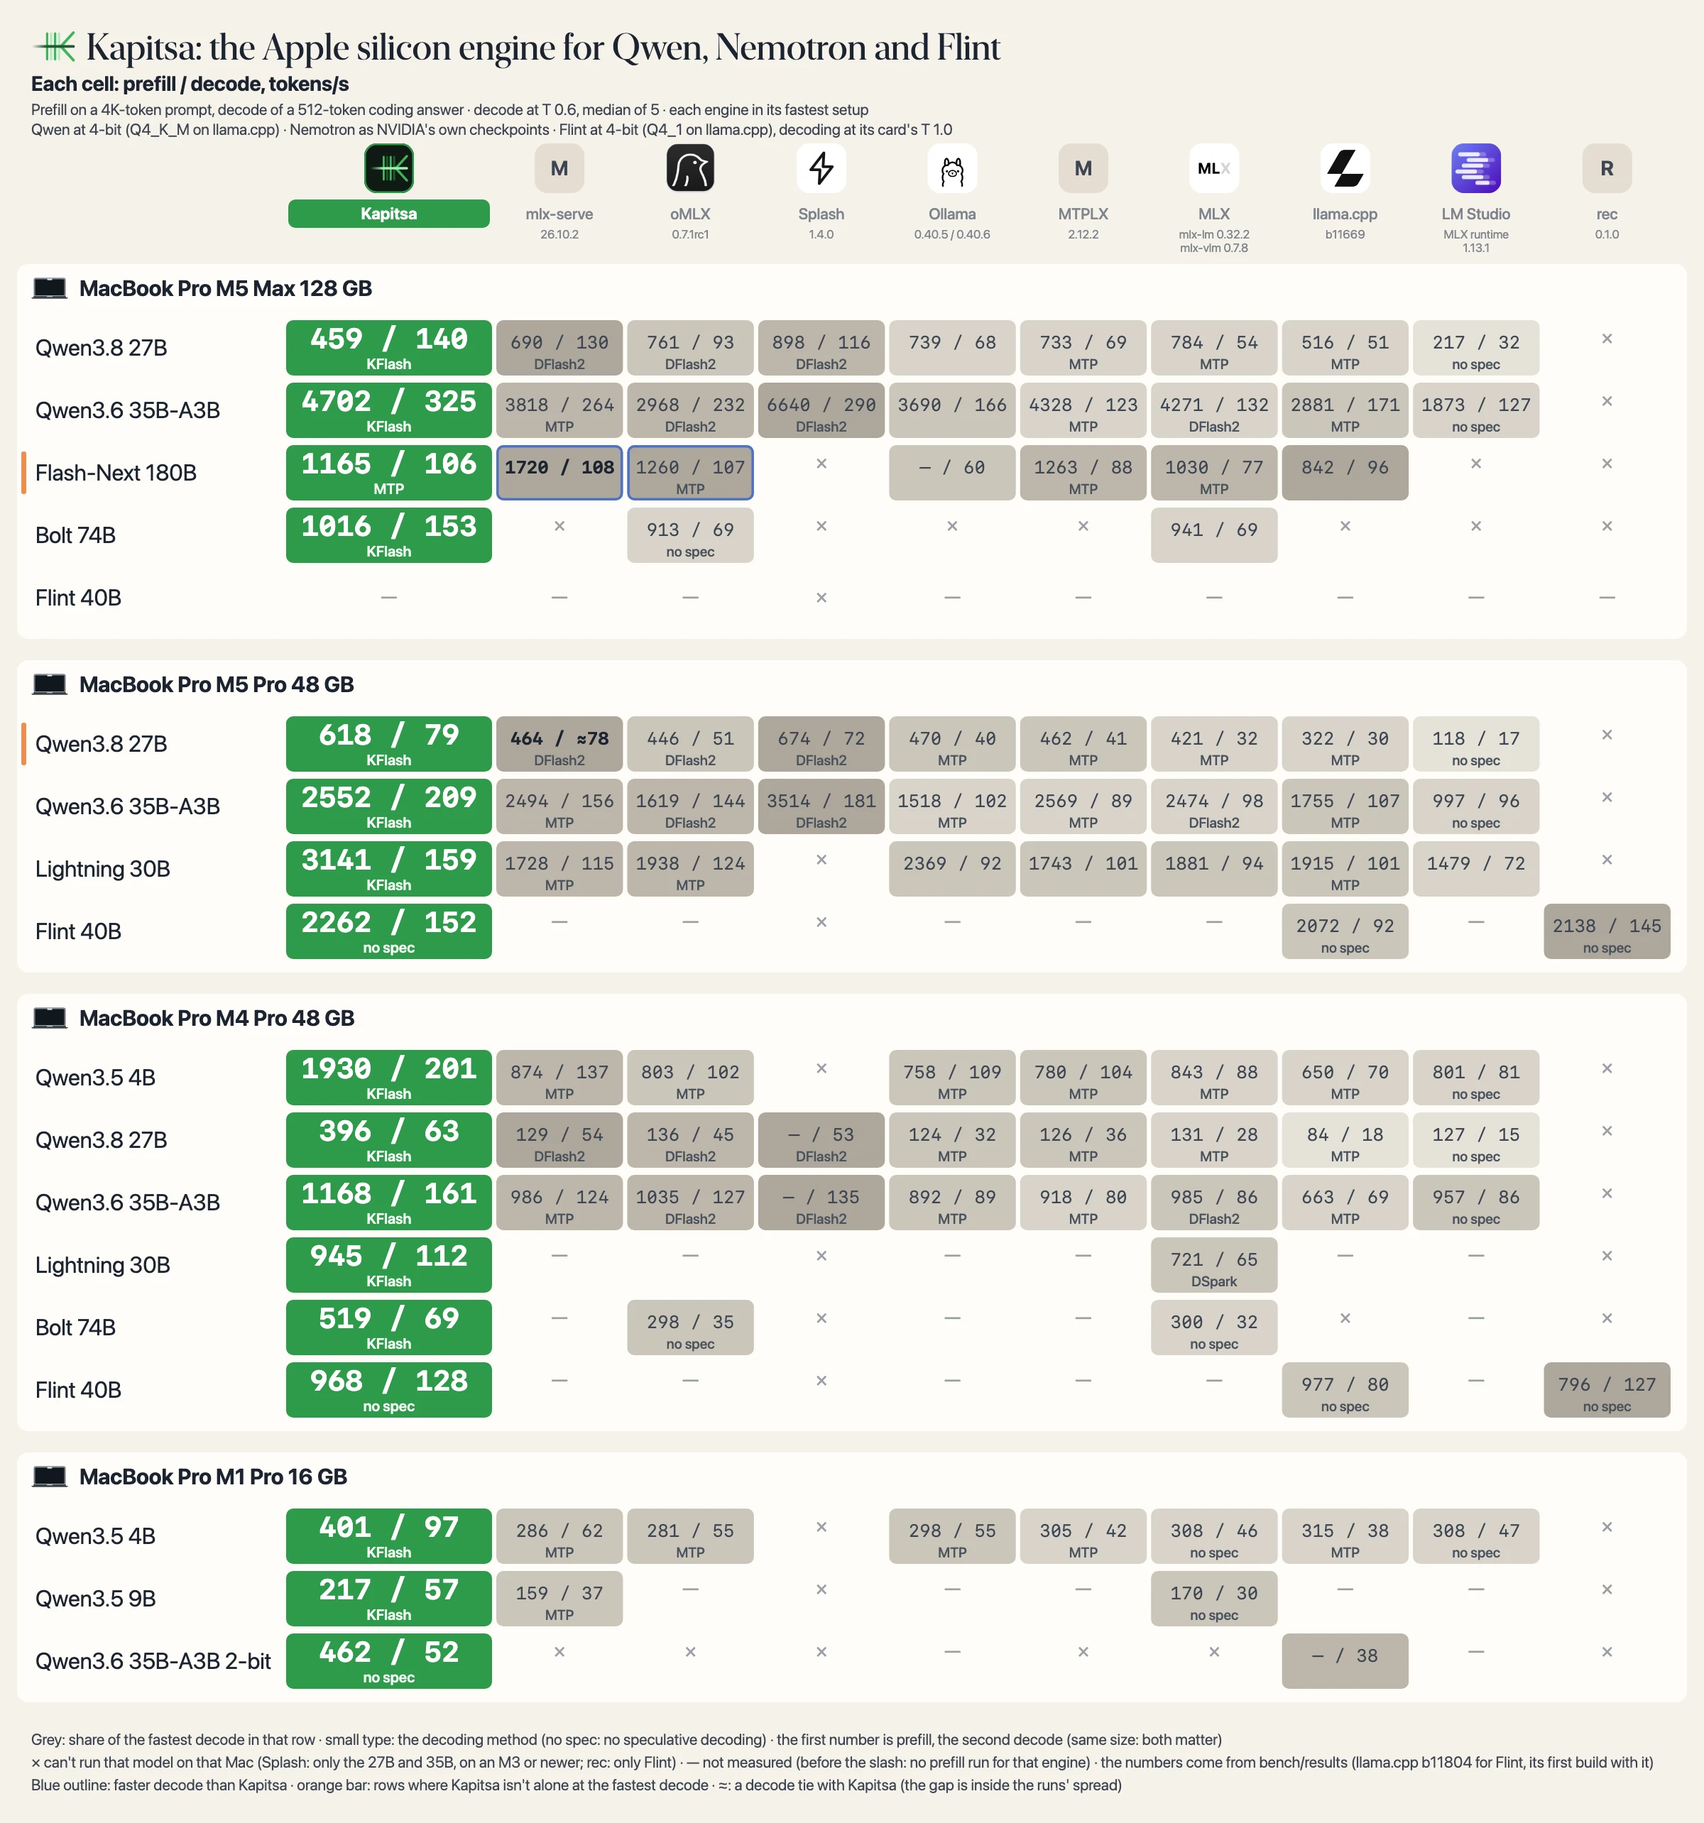
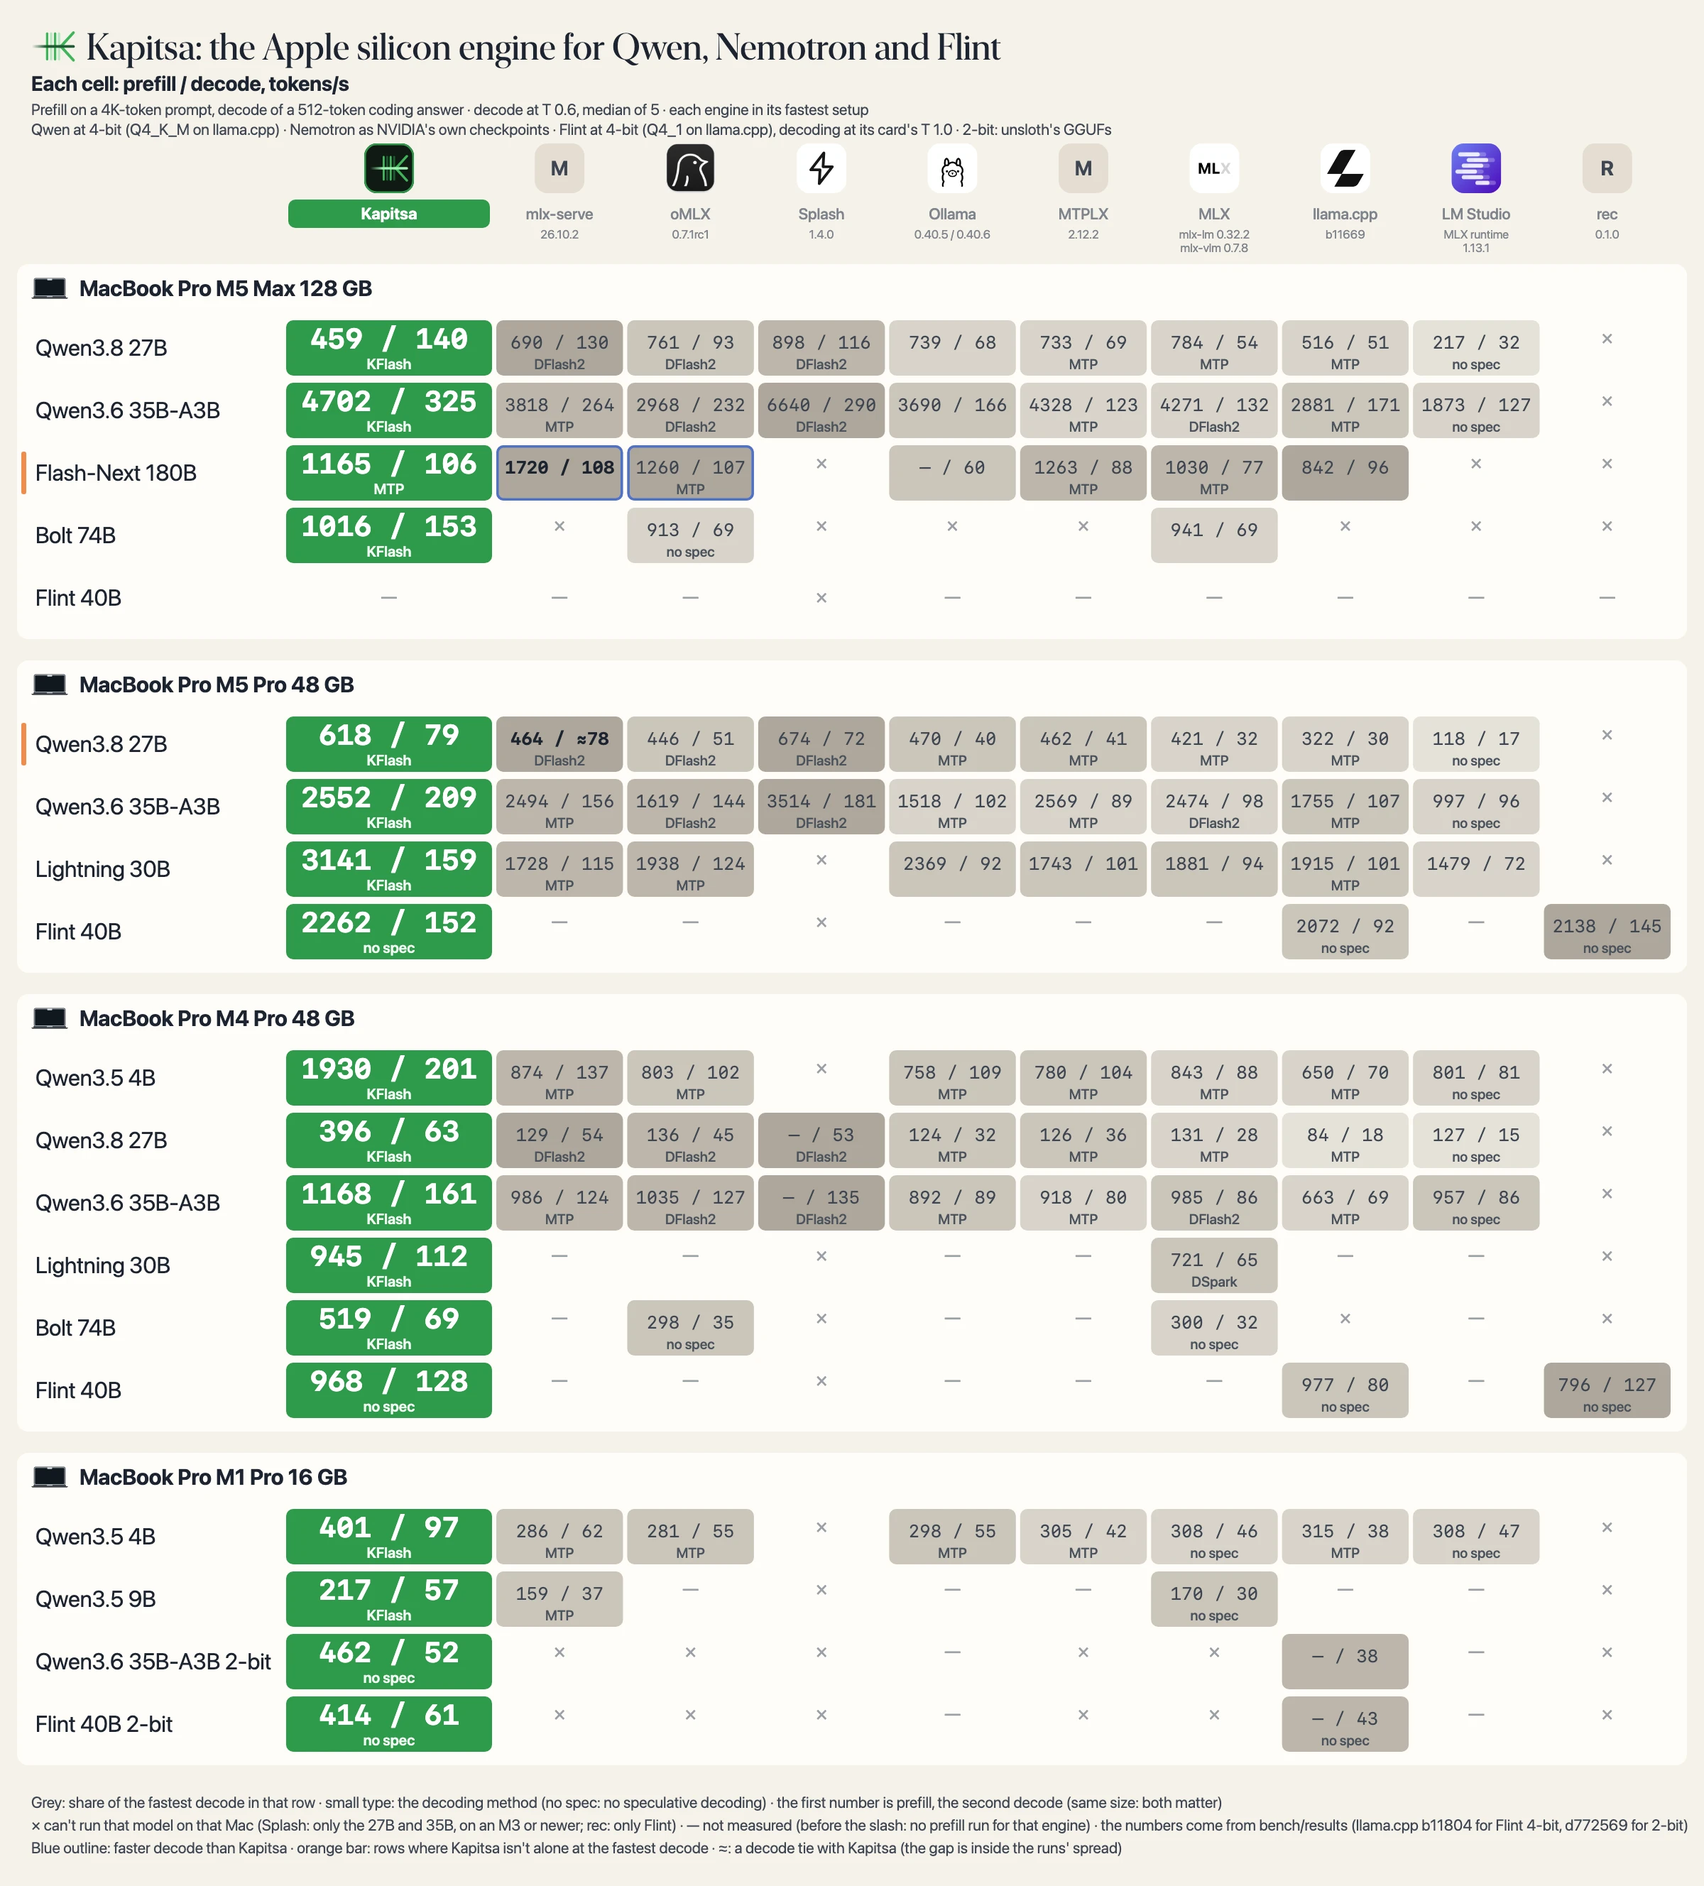
README after #346: the Flint 2-bit header, news line and count re-applied; poster and tables regenerated

diff --git a/bench/README.md b/bench/README.md
@@ -14,10 +14,14 @@ How to read it:
 
 <!-- BEGIN GENERATED: results (python3 bench/gen_readme.py; do not edit by hand) -->
 
-616 runs on 5 Macs (M1 Pro, 16 GB; M3 Pro, 36 GB; M4 Pro, 48 GB; M5 Max, 128 GB; M5 Pro, 48 GB), 2026-10-22 down to 2026-10-16, newest first.
+625 runs on 5 Macs (M1 Pro, 16 GB; M3 Pro, 36 GB; M4 Pro, 48 GB; M5 Max, 128 GB; M5 Pro, 48 GB), 2026-10-22 down to 2026-10-16, newest first.
 
 | Date | Submitted by | Mac | Model | Quant | Engine | Version | Decode tok/s | Greedy tok/s | Prefill 4K tok/s | Prefill 16K tok/s | TTFT 4K s | Agent tok/s | Flags | Record |
 | --- | --- | --- | --- | --- | --- | --- | ---: | ---: | ---: | ---: | ---: | ---: | --- | --- |
+| 2026-10-22 | Yerbol | M1 Pro, 16 GB | Flint 40B-A2.5B, 2-bit experts | 2-bit experts | Kapitsa (2-bit experts) | 2b5ab35 | 61.1 | 61.1 | 413 | – | 9.39 | – | – | [flint-16gb-kapitsa-20261022-230039](results/2026-10-22-flint-16gb-m1pro/results/flint-16gb-kapitsa-20261022-230039.json) |
+| 2026-10-22 | Yerbol | M1 Pro, 16 GB | Flint 40B-A2.5B, 2-bit experts | 2-bit experts | llama.cpp (UD-IQ2_XXS) | 0.7.0-dev | 42.6 | 42.1 | 346 | – | 11.19 | – | – | [flint-16gb-llamacpp-20261022-225553](results/2026-10-22-flint-16gb-m1pro/results/flint-16gb-llamacpp-20261022-225553.json) |
+| 2026-10-22 | Yerbol | M1 Pro, 16 GB | Flint 40B-A2.5B, 2-bit experts | 2-bit experts | Kapitsa (2-bit experts) | 2b5ab35 | 60.9 | 61.1 | 414 | – | 9.36 | – | – | [flint-16gb-kapitsa-20261022-225312](results/2026-10-22-flint-16gb-m1pro/results/flint-16gb-kapitsa-20261022-225312.json) |
+| 2026-10-22 | Yerbol | M1 Pro, 16 GB | Flint 40B-A2.5B, 2-bit experts | 2-bit experts | llama.cpp (UD-IQ2_XXS) | 0.7.0-dev | 42.2 | 42.9 | 355 | – | 10.90 | – | – | [flint-16gb-llamacpp-20261022-224836](results/2026-10-22-flint-16gb-m1pro/results/flint-16gb-llamacpp-20261022-224836.json) |
 | 2026-10-22 | Alisher Amantay | M3 Pro, 36 GB | Flint 40B-A2.5B | 4-bit | Kapitsa | a97e596 | 73.8 | 74.6 | 800 | 675 | 4.84 | – | – | [flint-kapitsa-20261022-223949](results/2026-10-22-flint-m3pro-ac/ab/results/flint-kapitsa-20261022-223949.json) |
 | 2026-10-22 | Alisher Amantay | M5 Pro, 48 GB | Flint 40B-A2.5B | 4-bit | Kapitsa | 91a249a | 149.9 | 151.1 | 2098 | 1423 | 1.85 | – | contention | [flint-kapitsa-20261022-223805](results/2026-10-22-flint-m5pro-qtm/results/flint-kapitsa-20261022-223805.json) |
 | 2026-10-22 | Alisher Amantay | M3 Pro, 36 GB | Flint 40B-A2.5B | 4-bit | Kapitsa | cff1b1e | 74.1 | 74.4 | 800 | 667 | 4.84 | – | – | [flint-kapitsa-20261022-223626](results/2026-10-22-flint-m3pro-ac/ab/results/flint-kapitsa-20261022-223626.json) |
@@ -35,14 +39,19 @@ How to read it:
 | 2026-10-22 | Alisher Amantay | M3 Pro, 36 GB | Flint 40B-A2.5B | 4-bit | Kapitsa | cff1b1e | 68.9 | 70.5 | 773 | 648 | 5.01 | – | – | [flint-kapitsa-20261022-211217](results/2026-10-22-flint-m3pro-ac/results/flint-kapitsa-20261022-211217.json) |
 | 2026-10-22 | Alisher Amantay | M3 Pro, 36 GB | Flint 40B-A2.5B | Q4_1 | llama.cpp b11804 | b11804 | 46.6 | 47.5 | 740 | 620 | 5.23 | – | – | [flint-llamacpp-20261022-210728](results/2026-10-22-flint-m3pro-ac/results/flint-llamacpp-20261022-210728.json) |
 | 2026-10-22 | Alisher Amantay | M3 Pro, 36 GB | Flint 40B-A2.5B | 4-bit | Kapitsa | cff1b1e | 70.7 | 70.5 | 772 | 645 | 5.02 | – | – | [flint-kapitsa-20261022-210349](results/2026-10-22-flint-m3pro-ac/results/flint-kapitsa-20261022-210349.json) |
+| 2026-10-22 | Yerbol | M1 Pro, 16 GB | Flint 40B-A2.5B, 2-bit experts | 2-bit experts | Kapitsa (2-bit experts) | 47960e8 | 61.6 | 61.4 | 414 | – | 9.36 | – | – | [flint-16gb-kapitsa-20261022-200335](results/2026-10-22-flint-16gb-m1pro/results/flint-16gb-kapitsa-20261022-200335.json) |
 | 2026-10-22 | Alisher Amantay | M5 Pro, 48 GB | Qwen3.8 27B | 4-bit | Kapitsa (DFlash2 drafter) | 3f7f4c8 | 81.8 | 84.3 | 653 | 546 | 6.33 | – | – | [q38-27b-kapitsa-20261022-200236](results/2026-10-22-m5pro-27b-ane-split/results/q38-27b-kapitsa-20261022-200236.json) |
+| 2026-10-22 | Yerbol | M1 Pro, 16 GB | Flint 40B-A2.5B, 2-bit experts | 2-bit experts | Kapitsa (2-bit experts) | 47960e8 | 61.0 | 61.2 | 413 | – | 9.38 | – | – | [flint-16gb-kapitsa-20261022-200059](results/2026-10-22-flint-16gb-m1pro/results/flint-16gb-kapitsa-20261022-200059.json) |
 | 2026-10-22 | Alisher Amantay | M5 Pro, 48 GB | Qwen3.8 27B | 4-bit | Kapitsa (DFlash2 drafter) | 3f7f4c8 | 76.6 | 86.2 | 583 | 536 | 7.09 | – | – | [q38-27b-kapitsa-20261022-195053](results/2026-10-22-m5pro-27b-ane-split/results/q38-27b-kapitsa-20261022-195053.json) |
-| 2026-10-22 | – | M5 Pro, 48 GB | Flint 40B-A2.5B | 4-bit | flint-base | 1455ab4 | 153.2 | – | 1392 | 1129 | 2.78 | – | – | [flint-base-20261022-191410](results/2026-10-22-flint-m5pro-qtm/pr340-ab/results/flint-base-20261022-191410.json) |
-| 2026-10-22 | – | M5 Pro, 48 GB | Flint 40B-A2.5B | 4-bit | flint-qtm | 1455ab4+dirty | 152.4 | – | 2262 | 1635 | 1.71 | – | – | [flint-qtm-20261022-190420](results/2026-10-22-flint-m5pro-qtm/pr340-ab/results/flint-qtm-20261022-190420.json) |
-| 2026-10-22 | – | M5 Pro, 48 GB | Flint 40B-A2.5B | 4-bit | flint-qtm | 1455ab4+dirty | – | – | – | – | – | – | invalid | [flint-qtm-20261022-190135](results/2026-10-22-flint-m5pro-qtm/pr340-ab/results/flint-qtm-20261022-190135.json) |
-| 2026-10-22 | – | M5 Pro, 48 GB | Flint 40B-A2.5B | 4-bit | flint-base | 1455ab4 | 152.7 | – | 1392 | 1128 | 2.78 | – | – | [flint-base-20261022-185958](results/2026-10-22-flint-m5pro-qtm/pr340-ab/results/flint-base-20261022-185958.json) |
+| 2026-10-22 | Alisher Amantay | M5 Pro, 48 GB | Flint 40B-A2.5B | 4-bit | flint-base | 1455ab4 | 153.2 | – | 1392 | 1129 | 2.78 | – | – | [flint-base-20261022-191410](results/2026-10-22-flint-m5pro-qtm/pr340-ab/results/flint-base-20261022-191410.json) |
+| 2026-10-22 | Alisher Amantay | M5 Pro, 48 GB | Flint 40B-A2.5B | 4-bit | flint-qtm | 1455ab4+dirty | 152.4 | – | 2262 | 1635 | 1.71 | – | – | [flint-qtm-20261022-190420](results/2026-10-22-flint-m5pro-qtm/pr340-ab/results/flint-qtm-20261022-190420.json) |
+| 2026-10-22 | Yerbol | M1 Pro, 16 GB | Flint 40B-A2.5B, 2-bit experts | 2-bit experts | Kapitsa (2-bit experts) | 60caf11 | 58.1 | 57.8 | 422 | – | 9.17 | – | – | [flint-16gb-kapitsa-20261022-190557](results/2026-10-22-flint-16gb-m1pro/results/flint-16gb-kapitsa-20261022-190557.json) |
+| 2026-10-22 | Alisher Amantay | M5 Pro, 48 GB | Flint 40B-A2.5B | 4-bit | flint-qtm | 1455ab4+dirty | – | – | – | – | – | – | invalid | [flint-qtm-20261022-190135](results/2026-10-22-flint-m5pro-qtm/pr340-ab/results/flint-qtm-20261022-190135.json) |
+| 2026-10-22 | Alisher Amantay | M5 Pro, 48 GB | Flint 40B-A2.5B | 4-bit | flint-base | 1455ab4 | 152.7 | – | 1392 | 1128 | 2.78 | – | – | [flint-base-20261022-185958](results/2026-10-22-flint-m5pro-qtm/pr340-ab/results/flint-base-20261022-185958.json) |
 | 2026-10-22 | Alisher Amantay | M5 Pro, 48 GB | Nemotron Dory1.0-4B | NVFP4 | Kapitsa (NVFP4, 2 loops, per-loop KV, speculative decoding) | 3112b93 | 71.2 | 80.3 | 1656 | 1311 | 2.53 | – | – | [dory-kapitsa-perloop-20261022-185535](results/2026-10-22-m5pro-dory/results/dory-kapitsa-perloop-20261022-185535.json) |
 | 2026-10-22 | Alisher Amantay | M5 Pro, 48 GB | Nemotron Dory1.0-4B | NVFP4 | Kapitsa (NVFP4, 2 loops, last-loop KV) | 3112b93 | 71.7 | 72.2 | 1625 | 1283 | 2.57 | – | contention | [dory-kapitsa-20261022-184939](results/2026-10-22-m5pro-dory/results/dory-kapitsa-20261022-184939.json) |
+| 2026-10-22 | Yerbol | M1 Pro, 16 GB | Flint 40B-A2.5B, 2-bit experts | 2-bit experts | llama.cpp (UD-IQ2_XXS) | 0.7.0-dev | 42.8 | 42.5 | 358 | – | 10.82 | – | – | [flint-16gb-llamacpp-20261022-184806](results/2026-10-22-flint-16gb-m1pro/results/flint-16gb-llamacpp-20261022-184806.json) |
+| 2026-10-22 | Yerbol | M1 Pro, 16 GB | Flint 40B-A2.5B, 2-bit experts | 2-bit experts | Kapitsa (2-bit experts) | 6e7a776+dirty | 57.5 | 57.8 | 423 | – | 9.17 | – | – | [flint-16gb-kapitsa-20261022-184404](results/2026-10-22-flint-16gb-m1pro/results/flint-16gb-kapitsa-20261022-184404.json) |
 | 2026-10-22 | Alisher Amantay | M5 Pro, 48 GB | Flint 40B-A2.5B | Q4_1 | llama.cpp b11804 | b11804 | 92.4 | 92.8 | 2072 | 1773 | 1.87 | – | – | [flint-llamacpp-20261022-180213](results/2026-10-22-flint-m5pro/results/flint-llamacpp-20261022-180213.json) |
 | 2026-10-22 | Alisher Amantay | M3 Pro, 36 GB | Flint 40B-A2.5B | Q4_1 | llama.cpp b11804 | b11804 | 51.0 | 51.2 | 771 | 640 | 5.03 | – | – | [flint-llamacpp-20261022-164049](results/2026-10-22-flint-m3pro/results/flint-llamacpp-20261022-164049.json) |
 | 2026-10-22 | Alisher Amantay | M3 Pro, 36 GB | Flint 40B-A2.5B | 4-bit | Kapitsa | 3da3798 | 73.5 | 74.6 | 800 | 675 | 4.84 | – | – | [flint-kapitsa-20261022-163728](results/2026-10-22-flint-m3pro/results/flint-kapitsa-20261022-163728.json) |

diff --git a/README.md b/README.md
@@ -1,7 +1,7 @@
 <picture>
   <source media="(max-width: 600px)" srcset="docs/assets/header-narrow.svg">
   <source media="(prefers-color-scheme: dark)" srcset="docs/assets/header-dark.svg">
-  <img alt="Kapitsa: a blazing fast Apple Silicon optimized inference engine built for Qwen, Nemotron and Flint. Writing speed of Qwen3.6 35B-A3B on a MacBook Pro (2024), M4 Pro, 48 GB, in tokens per second, at 4-bit: Kapitsa with KFlash 161, Splash with DFlash2 135, oMLX with DFlash2 127, Ollama with MTP 89, LM Studio 86, MTPLX with MTP 80, llama.cpp with MTP 69." src="docs/assets/header-light.svg">
+  <img alt="Kapitsa: a blazing fast Apple Silicon optimized inference engine built for Qwen, Nemotron and Flint. Writing speed of Recursive Flint 40B-A2.5B with 2-bit experts (unsloth's GGUF, the same file in both engines) on a MacBook Pro (2021), M1 Pro, 16 GB, in tokens per second: Kapitsa 61, llama.cpp 43." src="docs/assets/header-light.svg">
 </picture>
 
 Kapitsa is an inference engine for Apple silicon that runs Qwen, Nemotron and Recursive's Flint models locally, built for coding agents. It starts opencode, Claude Code, Codex or pi on a local model, and serves OpenAI and Anthropic APIs.
@@ -10,9 +10,10 @@ Kapitsa is an inference engine for Apple silicon that runs Qwen, Nemotron and Re
 
 ## 🔥 What's new
 
+- [2026/10] 🪶 **Flint on a 16 GB Mac: 1.4× llama.cpp's decode on the same 2-bit GGUF.** `--model flint` takes unsloth's 2-bit GGUF on 16-24 GB Macs: its routed experts run as stored, the rest requantized to 3-6 bits. 61 tok/s decode on an M1 Pro, in 11.6 GB ([numbers](docs/benchmarks.md#recursive-flint-40b-a25b-with-2-bit-experts-m1-pro-16-gb-2026-10-22)).
 - [2026/10] 🪨 **Recursive's Flint 40B-A2.5B: on the M4 Pro, 1.1-1.2× the prompt speed of Recursive's own engine.** Decode is level with it on short prompts and pulls ahead as the context grows, to 1.3× at 128K tokens, and 1.6-1.9× llama.cpp's ([numbers](docs/benchmarks.md#recursive-flint-40b-a25b-m4-pro-2026-10-22)). On the M5 Pro, with Flint's MoE prefill on the tensor units (#340), Kapitsa reads 4K prompts at 1,743-2,262 tok/s over three runs against rec's 2,138 and llama.cpp's 2,072, rec and llama.cpp read 16K prompts 1.19× and 1.08× as fast as Kapitsa's best run, and Kapitsa decodes 1.05× rec at T 1.0 (rec is ahead on greedy) and 1.65× llama.cpp ([numbers](docs/benchmarks.md#recursive-flint-40b-a25b-m5-pro-2026-10-22)).
 - [2026/10] 🚀 **KFlash: tree speculative decoding, up to 3.5× llama.cpp and 2.2× oMLX.** One verify pass checks a whole tree of the drafter's guesses ([how it works](docs/kflash.md)).
-- [2026/10] 🏆 **Kapitsa: the fastest decode in 24 of 26 model and Mac pairs** against nine engines, up to 2.6× MLX ([poster](#benchmarks)).
+- [2026/10] 🏆 **Kapitsa: the fastest decode in 25 of 27 model and Mac pairs** against nine engines, up to 2.6× MLX ([poster](#benchmarks)).
 - [2026/10] 🤝 **KFlash budget: subagents decode together.** Three requests at once share one verify pass, up to **+23% total throughput** on the 27B.
 - [2026/10] ⚡ **QMT prefill: read the prompt up to 1.5× faster on M5.** Metal 4 matrix units for the prompt (4B, M5 Pro).
 - [2026/10] 💾 **SSD prefix cache: restart the server, keep the conversation.** A 16K-token follow-up on the 35B starts in **0.16 s instead of 17 s**, about 100× (`--disk-cache`).
@@ -55,7 +56,7 @@ kapitsa update                  # update now (it also updates itself)
 
 ## Benchmarks
 
-Kapitsa has the fastest decode in 24 of the 26 model and Mac pairs measured against nine engines ([how each number was measured](docs/benchmarks.md#how-the-readme-poster-was-measured)).
+Kapitsa has the fastest decode in 25 of the 27 model and Mac pairs measured against nine engines ([how each number was measured](docs/benchmarks.md#how-the-readme-poster-was-measured)).
 
 <picture>
   <source media="(prefers-color-scheme: dark)" srcset="docs/assets/benchmarks-dark.webp">
@@ -142,7 +143,7 @@ The catalog models measured on each Mac, against the engines that run them: one 
 </details>
 
 <details>
-<summary><b>MacBook Pro (14-inch, 2021) · M1 Pro · 16 GB</b> · 6 models</summary>
+<summary><b>MacBook Pro (14-inch, 2021) · M1 Pro · 16 GB</b> · 7 models</summary>
 
 | Model | <mark>**Kapitsa**</mark> | <sub>mlx‑serve<br>26.10.2</sub> | <sub>oMLX<br>0.7.1rc1</sub> | <sub>Ollama<br>0.40.5 / 0.40.6</sub> | <sub>MTPLX<br>2.12.2</sub> | <sub>MLX<br>mlx-lm 0.32.2, mlx-vlm 0.7.8</sub> | <sub>llama.cpp<br>b11669</sub> | <sub>LM&nbsp;Studio<br>MLX runtime 1.13.1, llama.cpp runtime 2.60.0</sub> |
 | --- | ---: | ---: | ---: | ---: | ---: | ---: | ---: | ---: |
@@ -152,11 +153,12 @@ The catalog models measured on each Mac, against the engines that run them: one 
 | **Nemotron Dory1.0 4B** · `dory`<br><sub>looped dense · NVFP4, 3.2 GB</sub> | 🟩 **39**<br><sub>no spec</sub> | × | × | × | × | 30<br><sub>no spec</sub> | 4<br><sub>no spec</sub> | × |
 | **Nemotron 3 Nano 4B** · `nano-4b`<br><sub>hybrid Mamba-2 · FP8, 5.3 GB</sub> | 🟩 **37**<br><sub>prompt lookup</sub> | — | — | — | — | 21<br><sub>BF16</sub> | 28<br><sub>Q4_K_M</sub> | — |
 | **Nemotron Nano 9B v2** · `nano-9b`<br><sub>hybrid Mamba-2 · NVFP4, 7.9 GB</sub> | 🟩 **25**<br><sub>no spec</sub> | — | — | — | — | 18 | 14<br><sub>Q4_K_M</sub> | — |
+| **Recursive Flint 40B-A2.5B** · `flint:16gb`<br><sub>MoE, 2.5B active · 2-bit experts (unsloth's GGUF), 11.9 GB</sub> | 🟩 414 / **61**<br><sub>no spec</sub> | × | × | — | × | × | 43<br><sub>no spec · d772569</sub> | — |
 
 </details>
 
 <sub>Other precisions: `--model 35b:6bit` is five times closer to bf16 than the 4-bit default ([KL](docs/benchmarks.md#quality-qwen36-35b-a3b-against-bf16-2026-10-19)). All but Lightning, Dory, the two Nemotron Nanos, Flint and the 35B's `16gb` read images. Memory: 16 GB for the 4B and 9B models, 32 GB
-for the 27B, 35B, Lightning, Bolt and Flint, 96 GB for Super-VL, 128 GB for Flash-Next. On a 16 or 24 GB Mac, `35b` takes its `16gb` variant: unsloth's 2-bit GGUF, downloaded and imported in one step ([how](docs/usage.md#gguf-files)). [Every model's variants and draft models](docs/usage.md#models-and-downloads)</sub>
+for the 27B, 35B, Lightning, Bolt and Flint, 96 GB for Super-VL, 128 GB for Flash-Next. On a 16 or 24 GB Mac, `35b` and `flint` take their `16gb` variants: unsloth's 2-bit GGUFs, downloaded and imported in one step ([how](docs/usage.md#gguf-files)). [Every model's variants and draft models](docs/usage.md#models-and-downloads)</sub>
 
 ## How it works
 
